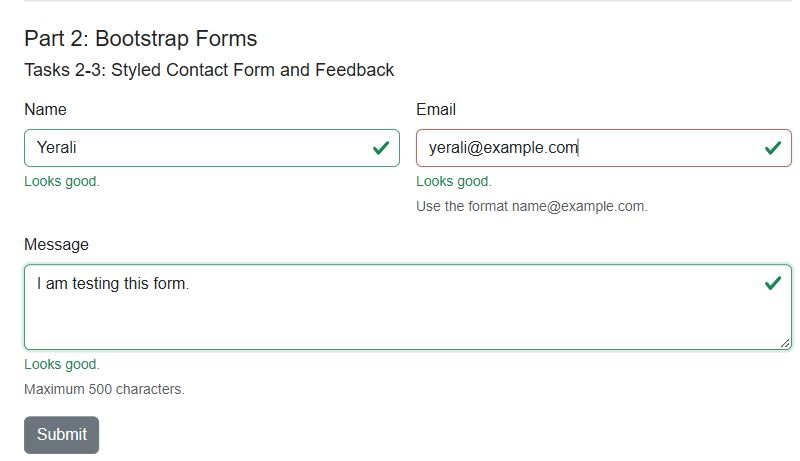
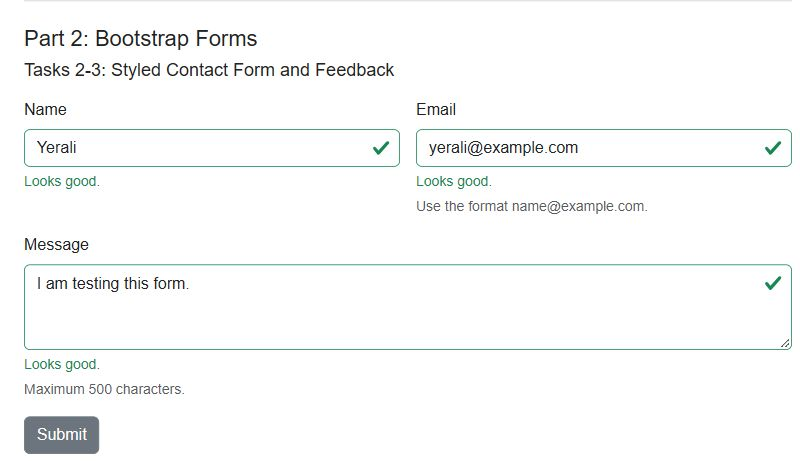
assignment4

Changed region(s): [[0.0312, 0.7592, 0.9688, 0.7896], [0.0312, 0.5466, 0.9688, 0.577], [0.5312, 0.3341, 0.9688, 0.3644]]

diff --git a/index.html b/index.html
@@ -36,7 +36,7 @@
     <section id="part2">
       <h2>Part 2: Bootstrap Forms</h2>
       <h3>Tasks 2-3: Styled Contact Form and Feedback</h3>
-      <form id="contact-form" class="was-validated" method="dialog">
+      <form id="contact-form" class="needs-validation" method="dialog" novalidate>
         <div class="row g-3">
           <div class="col-12 col-md-6">
             <label for="contact-name" class="form-label">Name</label>
@@ -84,7 +84,7 @@
     <section id="part3">
       <h2>Part 3: Advanced Form Project</h2>
       <h3>Task 4: Registration Form</h3>
-      <form id="registration-form" class="was-validated" method="dialog">
+      <form id="registration-form" class="needs-validation" method="dialog" novalidate>
         <div class="row g-3">
           <div class="col-12 col-md-6">
             <label for="first-name" class="form-label">First Name</label>
@@ -166,5 +166,6 @@
       </form>
     </section>
   </main>
+  <script src="js/validation.js"></script>
 </body>
 </html>

diff --git a/js/validation.js b/js/validation.js
@@ -1,0 +1,20 @@
+(() => {
+  'use strict';
+
+  const forms = document.querySelectorAll('.needs-validation');
+
+  Array.from(forms).forEach(form => {
+    form.addEventListener('submit', event => {
+      if (!form.checkValidity()) {
+        event.preventDefault();
+        event.stopPropagation();
+      }
+
+      form.classList.add('was-validated');
+    }, false);
+
+    form.addEventListener('reset', () => {
+      form.classList.remove('was-validated');
+    });
+  });
+})();

diff --git a/README.md b/README.md
@@ -4,7 +4,7 @@ Name: Yerali Karkinbayev
 
 Group: IT-2501
 
-Three forms with HTML, CSS and Bootstrap. No JavaScript. Open "index.html". Submit check the fields, nothing is sent.
+Three forms with HTML, CSS, Bootstrap and JavaScript. Open "index.html". Submit check the fields, nothing is sent.
 
 ## Part 1: Basic HTML Forms
 
@@ -32,7 +32,7 @@ Bootstrap fields, placeholders and helper text. Grid gives two columns from 768p
 
 ![Class examples](screenshots/task3-classes.jpg)
 
-is-valid and is-invalid are fixed examples. The working form use was-validated, so feedback changes with input.
+is-valid and is-invalid are fixed examples. The working forms use "js/validation.js" from the [Bootstrap example](https://getbootstrap.com/docs/5.3/forms/validation/#custom-styles). It checks validity on Submit and adds was-validated. Feedback then change with input.
 
 Wrong input:
 
@@ -58,8 +58,8 @@ Phone:
 
 ![Phone layout](screenshots/task4-mobile.jpg)
 
-First and last name, email, passwords, gender, hobbies and country. Both passwords need 8 or more characters, they are not compared. Hobbies are optional. Reset clear all fields and selections. Empty required fields are red, also after Reset.
+First and last name, email, passwords, gender, hobbies and country. Both passwords need 8 or more characters, they are not compared. Hobbies are optional. Errors show after Submit. Reset clear fields, selections and validation styles.
 
 ## Work Process
 
-I made forms then add Bootstrap. Checked labels, empty fields, email, length limits, choices and Reset. Also tested at 320px, 768px and 1280px.
+I made forms then add Bootstrap and the validation script. Checked labels, empty fields, email, length limits, choices and Reset. Also tested at 320px, 768px and 1280px.
